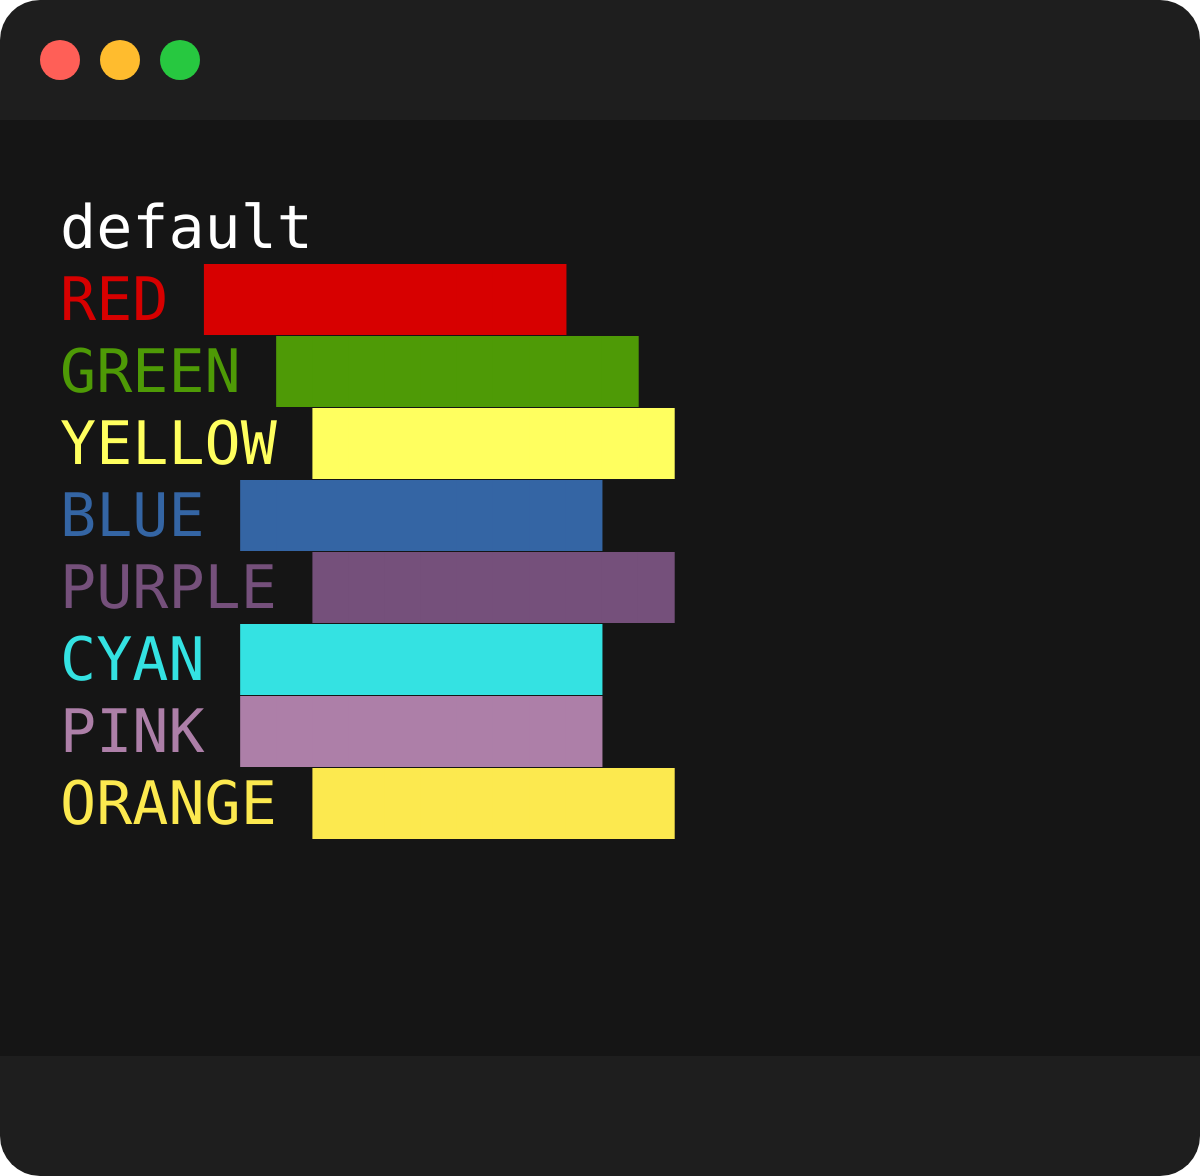
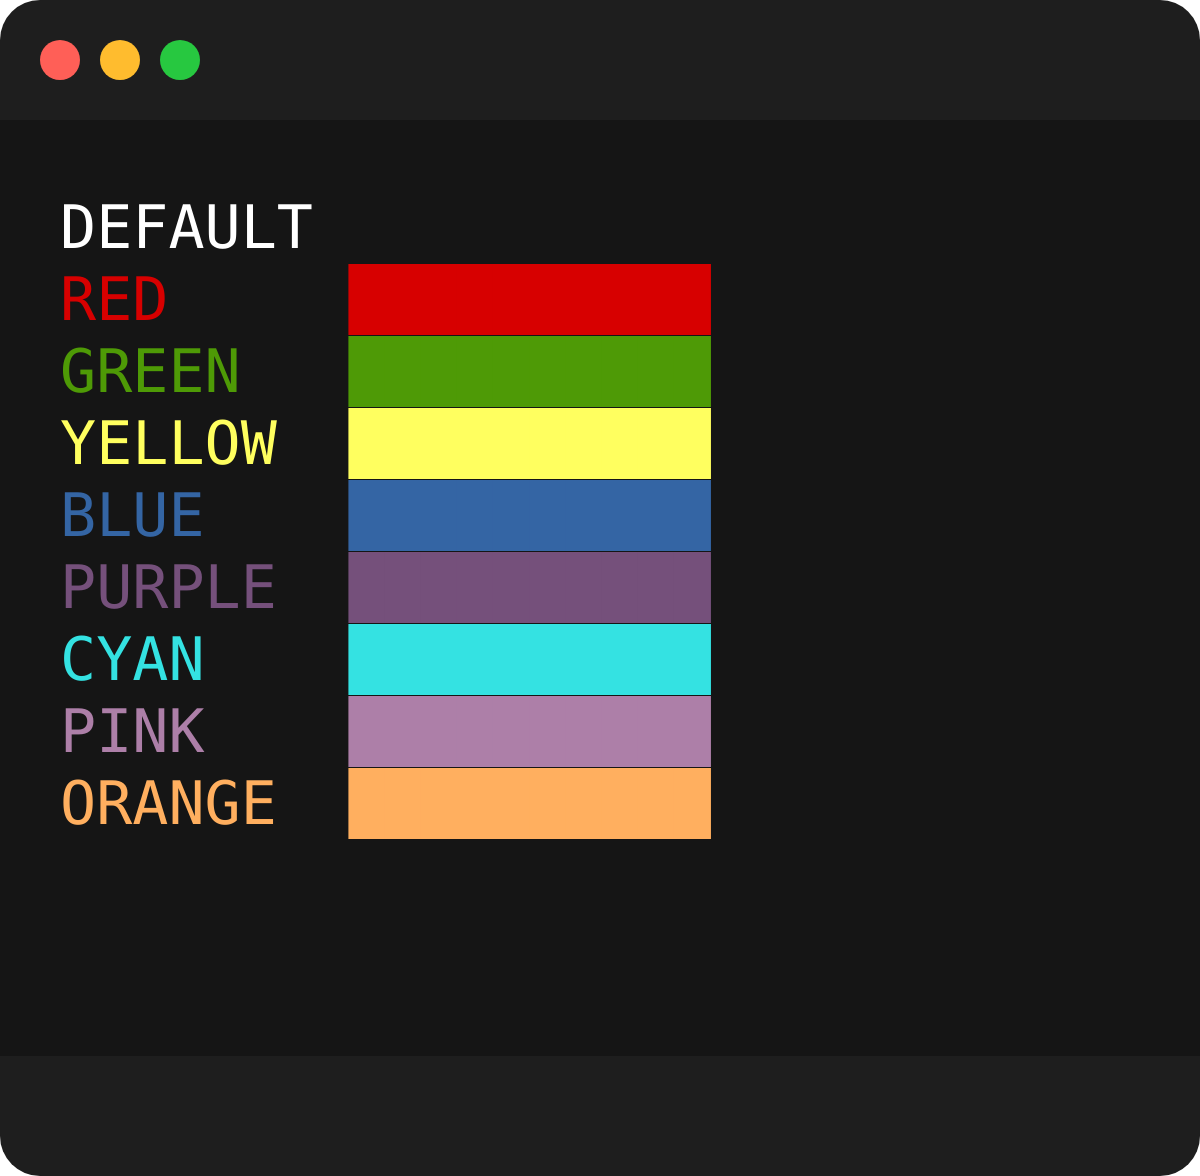
docs: readme images

Changed region(s): [[0.0308, 0.1531, 0.6167, 0.7347]]

diff --git a/index.js b/index.js
@@ -1,6 +1,7 @@
 const RESET = '\x1b[0m';
 
 const colorMap = {
+  reset: 0,
   red: [38, 5, 160],
   green: 32,
   yellow: [38, 5, 227],
@@ -8,15 +9,14 @@ const colorMap = {
   purple: 35,
   cyan: 96,
   pink: 95,
-  orange: 93,
+  orange: [38, 5, 215],
   marine: 94,
   white: 97,
   black: 30,
-  reset: 0,
   pastel: {
     red: 31,
     green: [38, 5, 49],
-    yellow: 33,
+    yellow: [38, 5, 228],
     blue: [38, 5, 39],
     purple: [38, 5, 147],
     cyan: [38, 5, 159],
@@ -41,7 +41,7 @@ const colorMap = {
     purple: [38, 5, 105],
     cyan: [38, 5, 123],
     pink: [38, 5, 200],
-    orange: [38, 5, 202],
+    orange: [38, 5, 214],
   },
   pinkish: {
     thistle: '#E0BBE4',
@@ -77,7 +77,7 @@ const decoratorMap = {
   invert: '@',
   blink: '^',
   italic: '%',
-  strikeout: '$'
+  strikeout: '$',
 };
 
 const decoratorFunctions = {
@@ -106,7 +106,7 @@ function rgbToAnsi(r, g, b, txt) {
   return `\x1b[38;2;${r};${g};${b}m${txt || ''}${txt ? RESET : ''}`;
 }
 
-function getValue(txt, ...args){
+function getValue(txt, ...args) {
   let value = txt;
   if (args.length > 0) {
     value = txt.map((t, i) => t + (args[i] || '')).join('');
@@ -164,12 +164,14 @@ function makeFunctions(colors, symbols) {
 }
 
 function getPartials(subject, map) {
-  return subject ? Object.keys(map).reduce((acc, key) => {
-    if (key in subject) {
-      acc[key] = subject[key] 
-    }
-    return acc;
-  }, map) : map;
+  return subject
+    ? Object.keys(map).reduce((acc, key) => {
+        if (key in subject) {
+          acc[key] = subject[key];
+        }
+        return acc;
+      }, map)
+    : map;
 }
 
 function style(config = {}) {
@@ -182,12 +184,12 @@ function style(config = {}) {
   const functions = makeFunctions(themedColors, symbolz);
   return {
     ...colorCodes,
-    ...functions, 
+    ...functions,
     ...decoratorFunctions,
     ...symbolz,
-    rgb: (r, g, b) => (txt, args) => { 
+    rgb: (r, g, b) => (txt, args) => {
       const value = getValue(txt, args);
-      return rgbToAnsi(r, g, b, value) 
+      return rgbToAnsi(r, g, b, value);
     },
     hex: (hex) => (txt, args) => {
       const value = getValue(txt, args);

diff --git a/test2.js b/test2.js
@@ -1,20 +1,28 @@
 const style = require('./');
+const shellfie = require('shellfie');
 const s = style();
-// use as tag functions
-console.log(s.red`this will be red`)
-// use decorators for bold, underline etc...
-console.log(s.pastel.green`this will be pastel green and *bold*`)
+const data = [];
 
-const ss = style({theme: 'pastel'});
-// now the usual ss.green points to the pastel green
-// allowing to change theme for the entire cli with one string
-console.log(ss.green`this will be pastel green`)
+(async function() {
 
-// supports custom hex
-console.log(ss.hex('#de5285')`this will be a slick pink`)
-// and rgb
-console.log(ss.rgb(15, 106, 251)`this will be a rich blue`)
-// use decorators for bold, underline etc...
-console.log(s.red`this will be a lush *BOLD* @RED@`)
-console.log(s.cyan`!this will all be underlined!`)
-console.log(s.green`$59$$ 29$ !`)
+
+    // use as tag functions
+    data.push(s.red`this will be red`)
+    // access a theme specifically
+    data.push(s.pastel.green`this will be a pastel green`)
+    
+    const ss = style({theme: 'pastel'});
+    // now `ss.green` points to the pastel green
+    // allowing to change theme for the entire cli with one string
+    data.push(ss.green`also be a pastel green`)
+    
+    // supports custom hex
+    data.push(ss.hex('#de5285')`this will be a slick pink`)
+    // and rgb
+    data.push(ss.rgb(15, 106, 251)`this will be a rich blue`)
+    
+    await shellfie(data, {
+        viewport: { width: 300, height: 300 },
+        name: 'themes',
+      });
+})()

diff --git a/index.test.js b/index.test.js
@@ -13,9 +13,11 @@ function createPhrases(styles) {
     'pink',
     'orange',
   ];
+  const maxLabelLength = 6;
   return Object.keys(styles).reduce((acc, key) => {
     if (colors.includes(key)) {
-      acc.push(styles[key]`${key.toUpperCase()} ██████████`);
+      const space = ' '.repeat((maxLabelLength - key.length) + 2);
+      acc.push(styles[key]`${key.toUpperCase() + space}██████████`);
     }
     return acc;
   }, []);

diff --git a/test.js b/test.js
@@ -3,7 +3,7 @@ const shellfie = require('shellfie');
 
 (async function () {
   for (const key in keys) {
-    await shellfie(key + '\n' + keys[key].join('\n'), {
+    await shellfie(key.toUpperCase() + '\n' + keys[key].join('\n'), {
       viewport: { width: 300, height: 300 },
       name: key,
     });

diff --git a/README.md b/README.md
@@ -12,11 +12,15 @@ cli color manager
 5 unique built-in themes to get you started on easy cli styling    
 [![](https://img.shields.io/static/v1?label=created%20with%20shellfie&message=📸&color=pink)](https://github.com/tool3/shellfie)  
 
-![](./shellfies/default.png)
-![](./shellfies/pastel.png)
-![](./shellfies/lush.png)
-![](./shellfies/standard.png)
-![](./shellfies/beach.png)     
+<div>
+  <img src="./shellfies/default.png" width="300" height="300" />
+  <img src="./shellfies/standard.png" width="300" height="300" />
+</div>
+<div>
+  <img src="./shellfies/pastel.png" width="300" height="300" />
+  <img src="./shellfies/lush.png" width="300" height="300" />
+  <img src="./shellfies/beach.png" width="300" height="300" />
+</div>
 
 ## usage
 ```javascript
